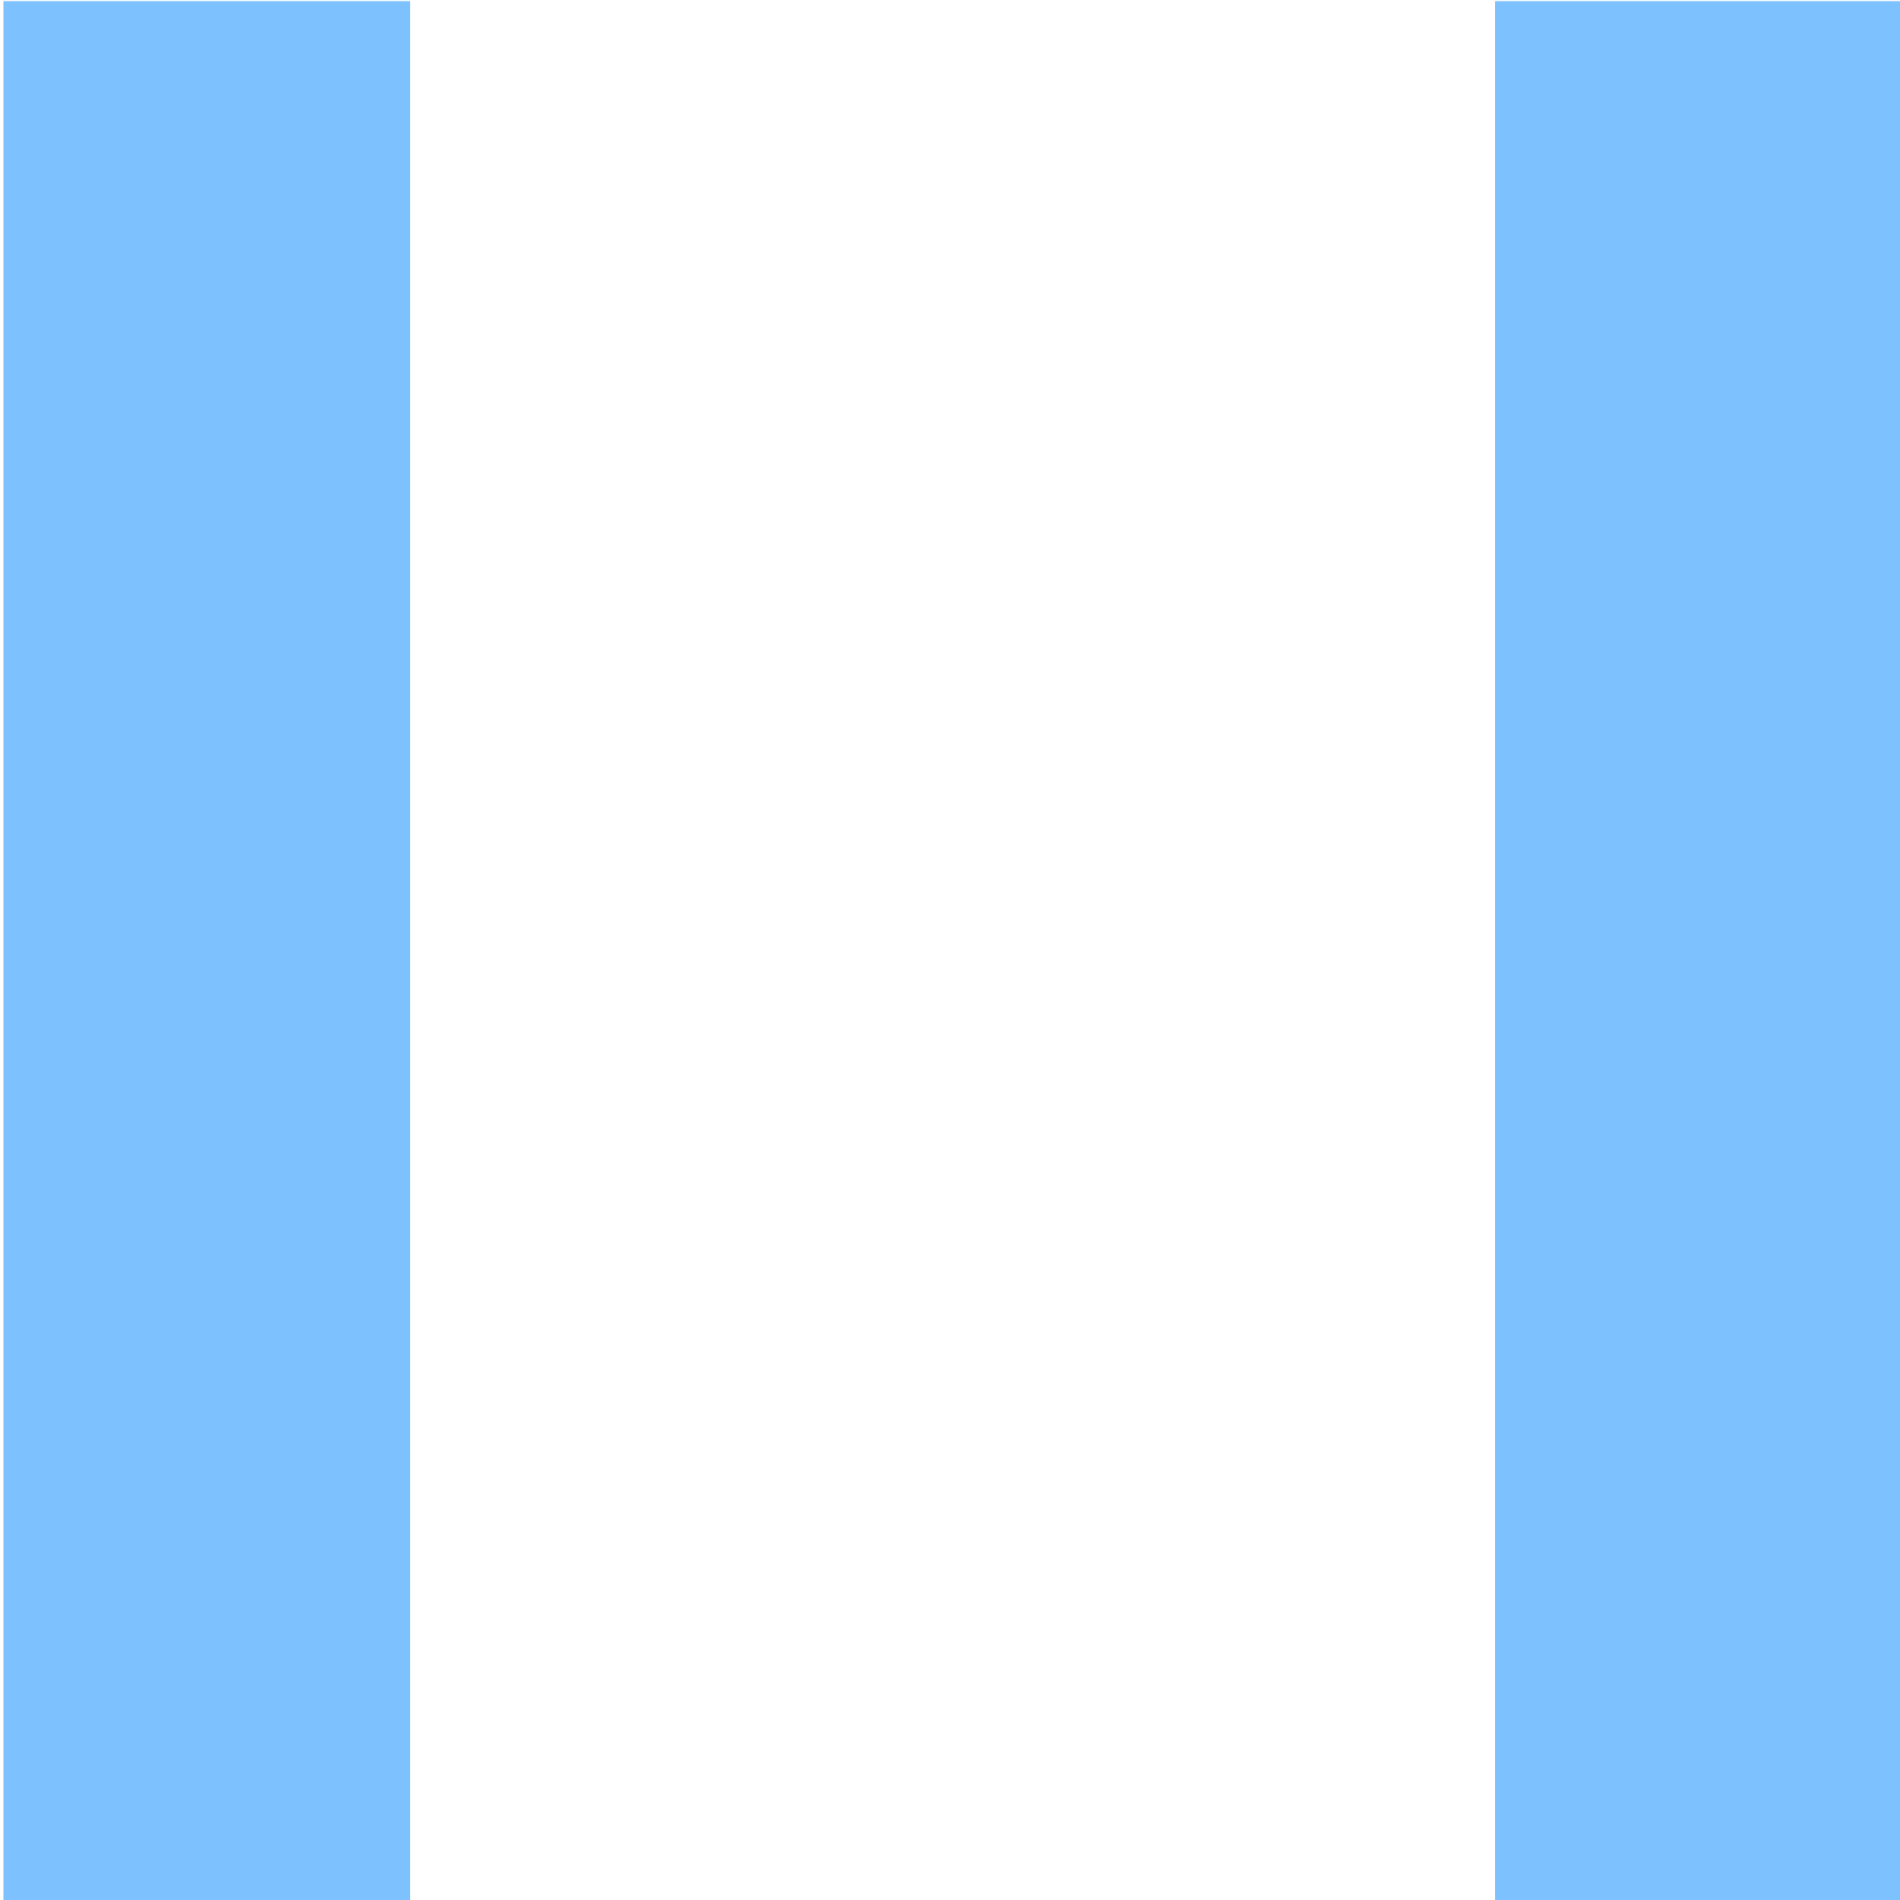
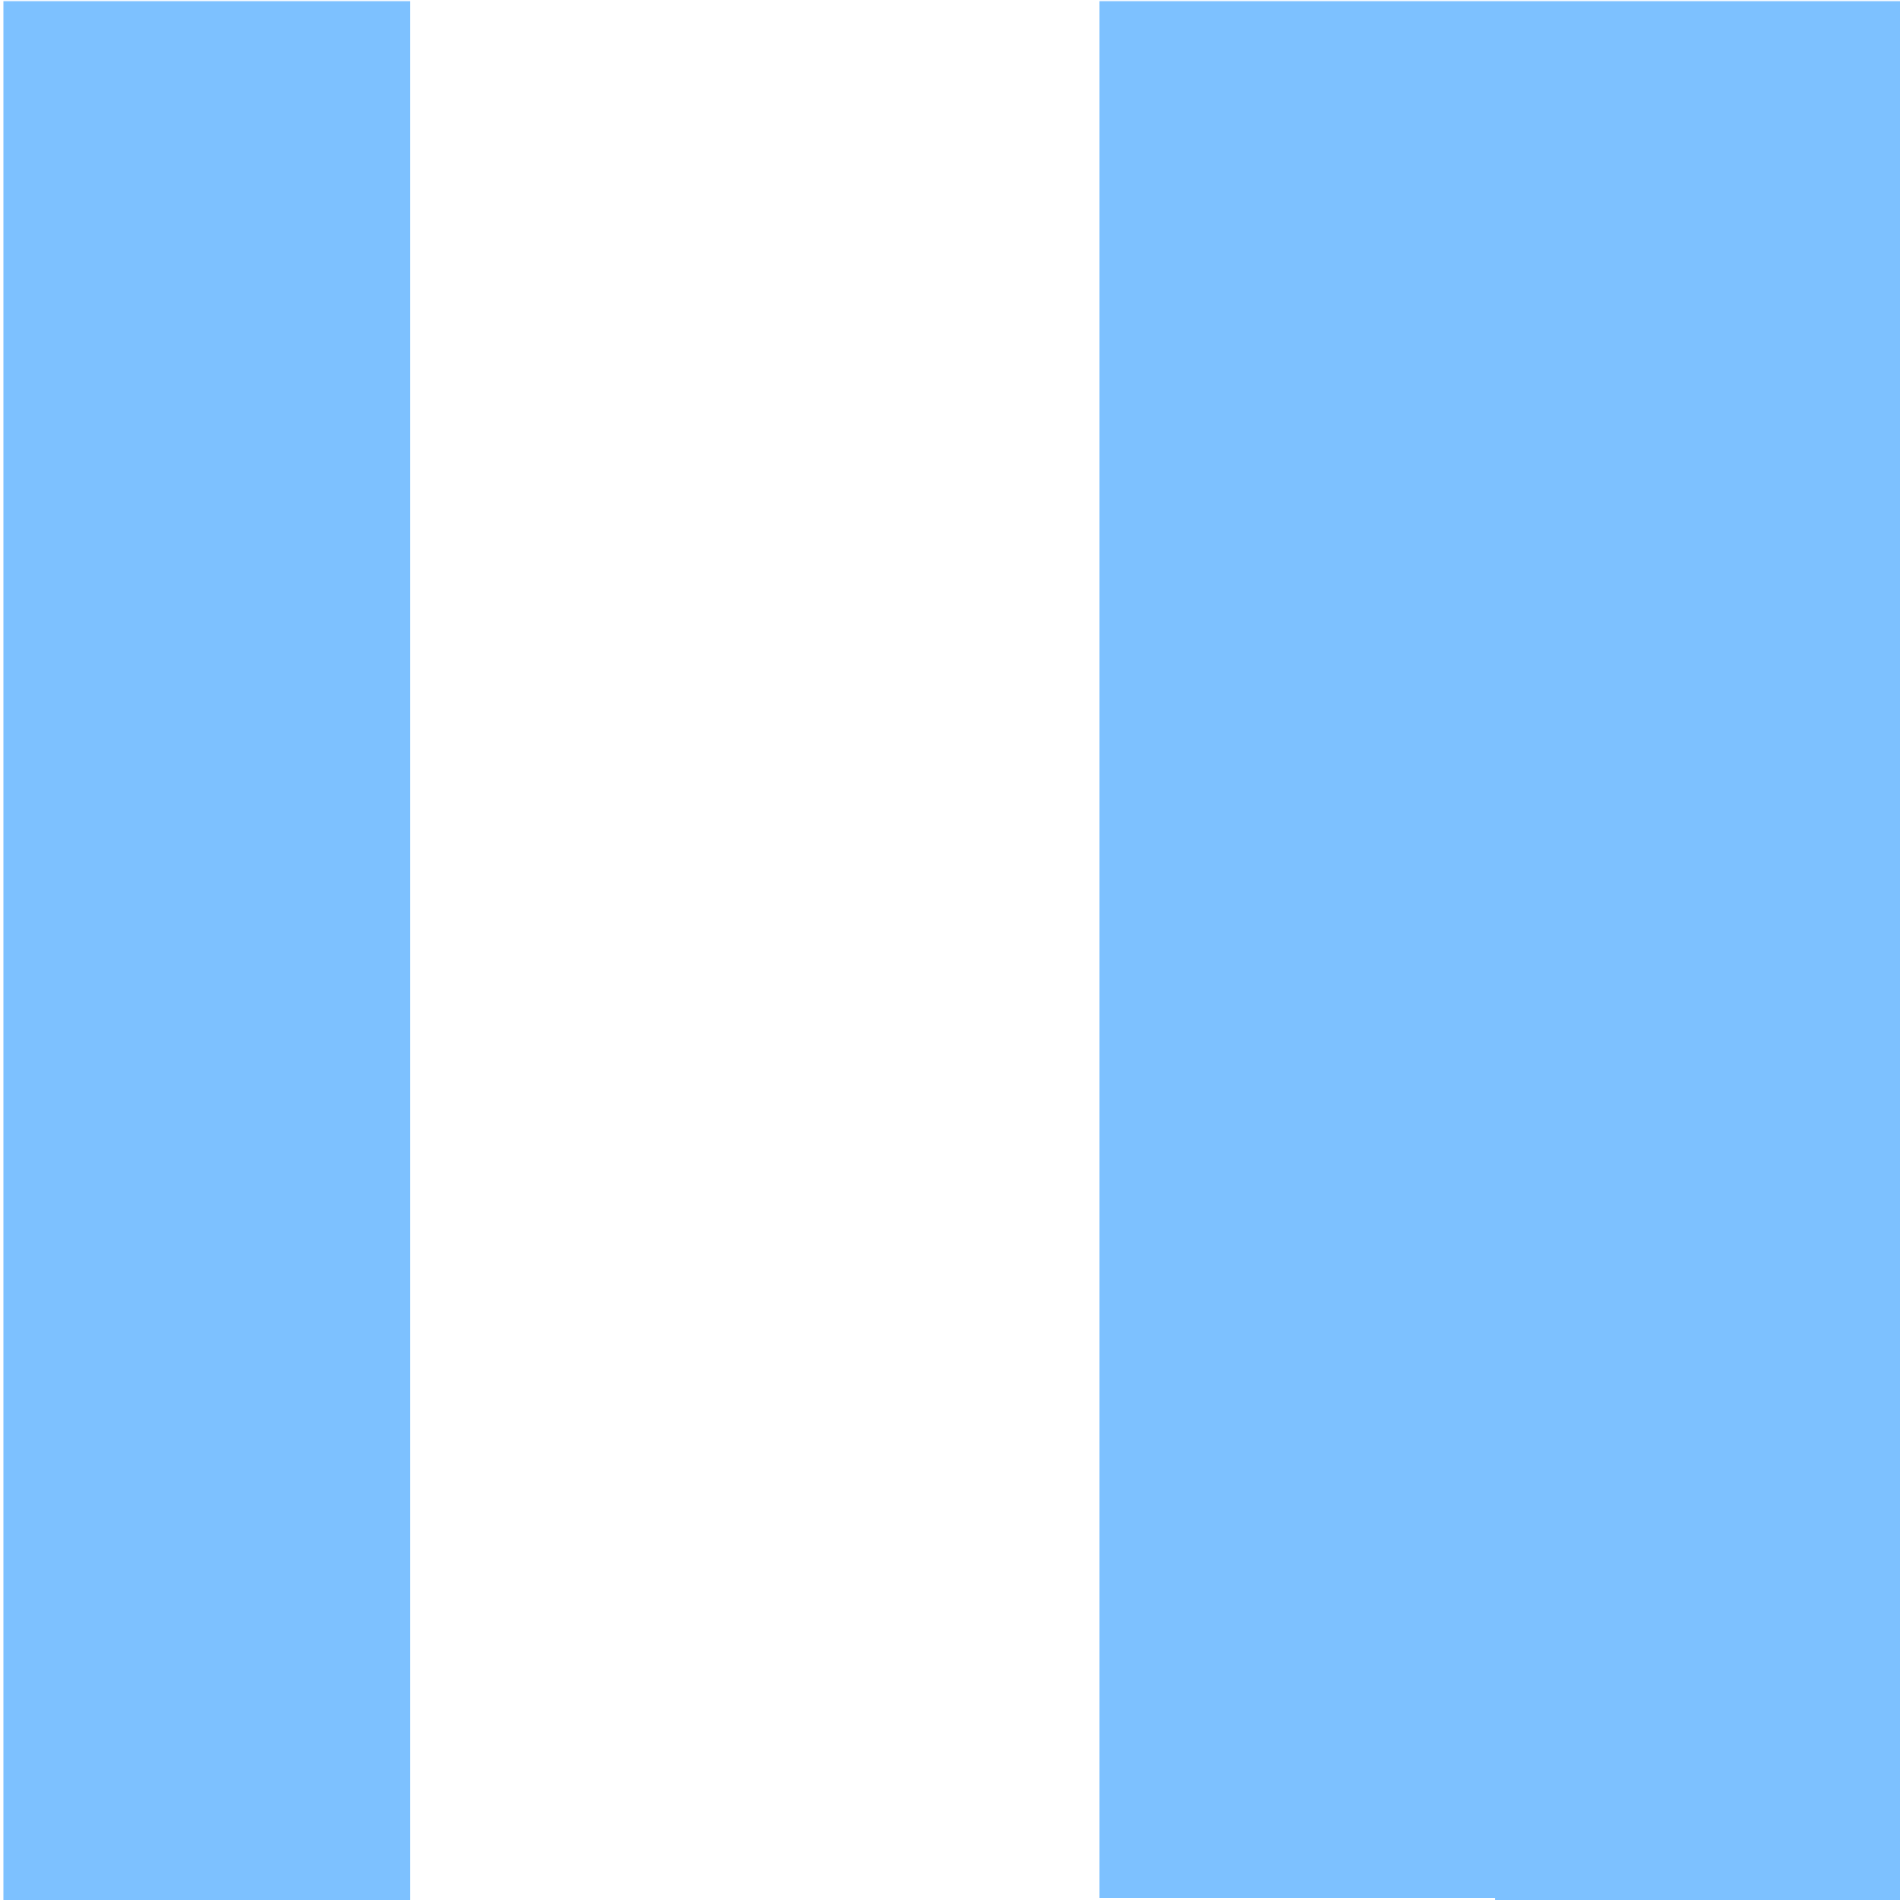
gallery arrows

Changed region(s): [[0.5589, 0.0, 0.8074, 1.0]]

diff --git a/LESS/global.less b/LESS/global.less
@@ -37,7 +37,7 @@
 
   body {
     background-image: url("../image/Background.PNG"), url("../image/sides.PNG");
-    background-size: contain, 100vw;
+    background-size: contain, 100vw 100vh;
     background-position: top, top;
     background-repeat: no-repeat, no-repeat;
 

diff --git a/css/index.css b/css/index.css
@@ -201,7 +201,7 @@ p {
 }
 body {
   background-image: url("../image/Background.PNG"), url("../image/sides.PNG");
-  background-size: contain, 100vw;
+  background-size: contain, 100vw 100vh;
   background-position: top, top;
   background-repeat: no-repeat, no-repeat;
 }
